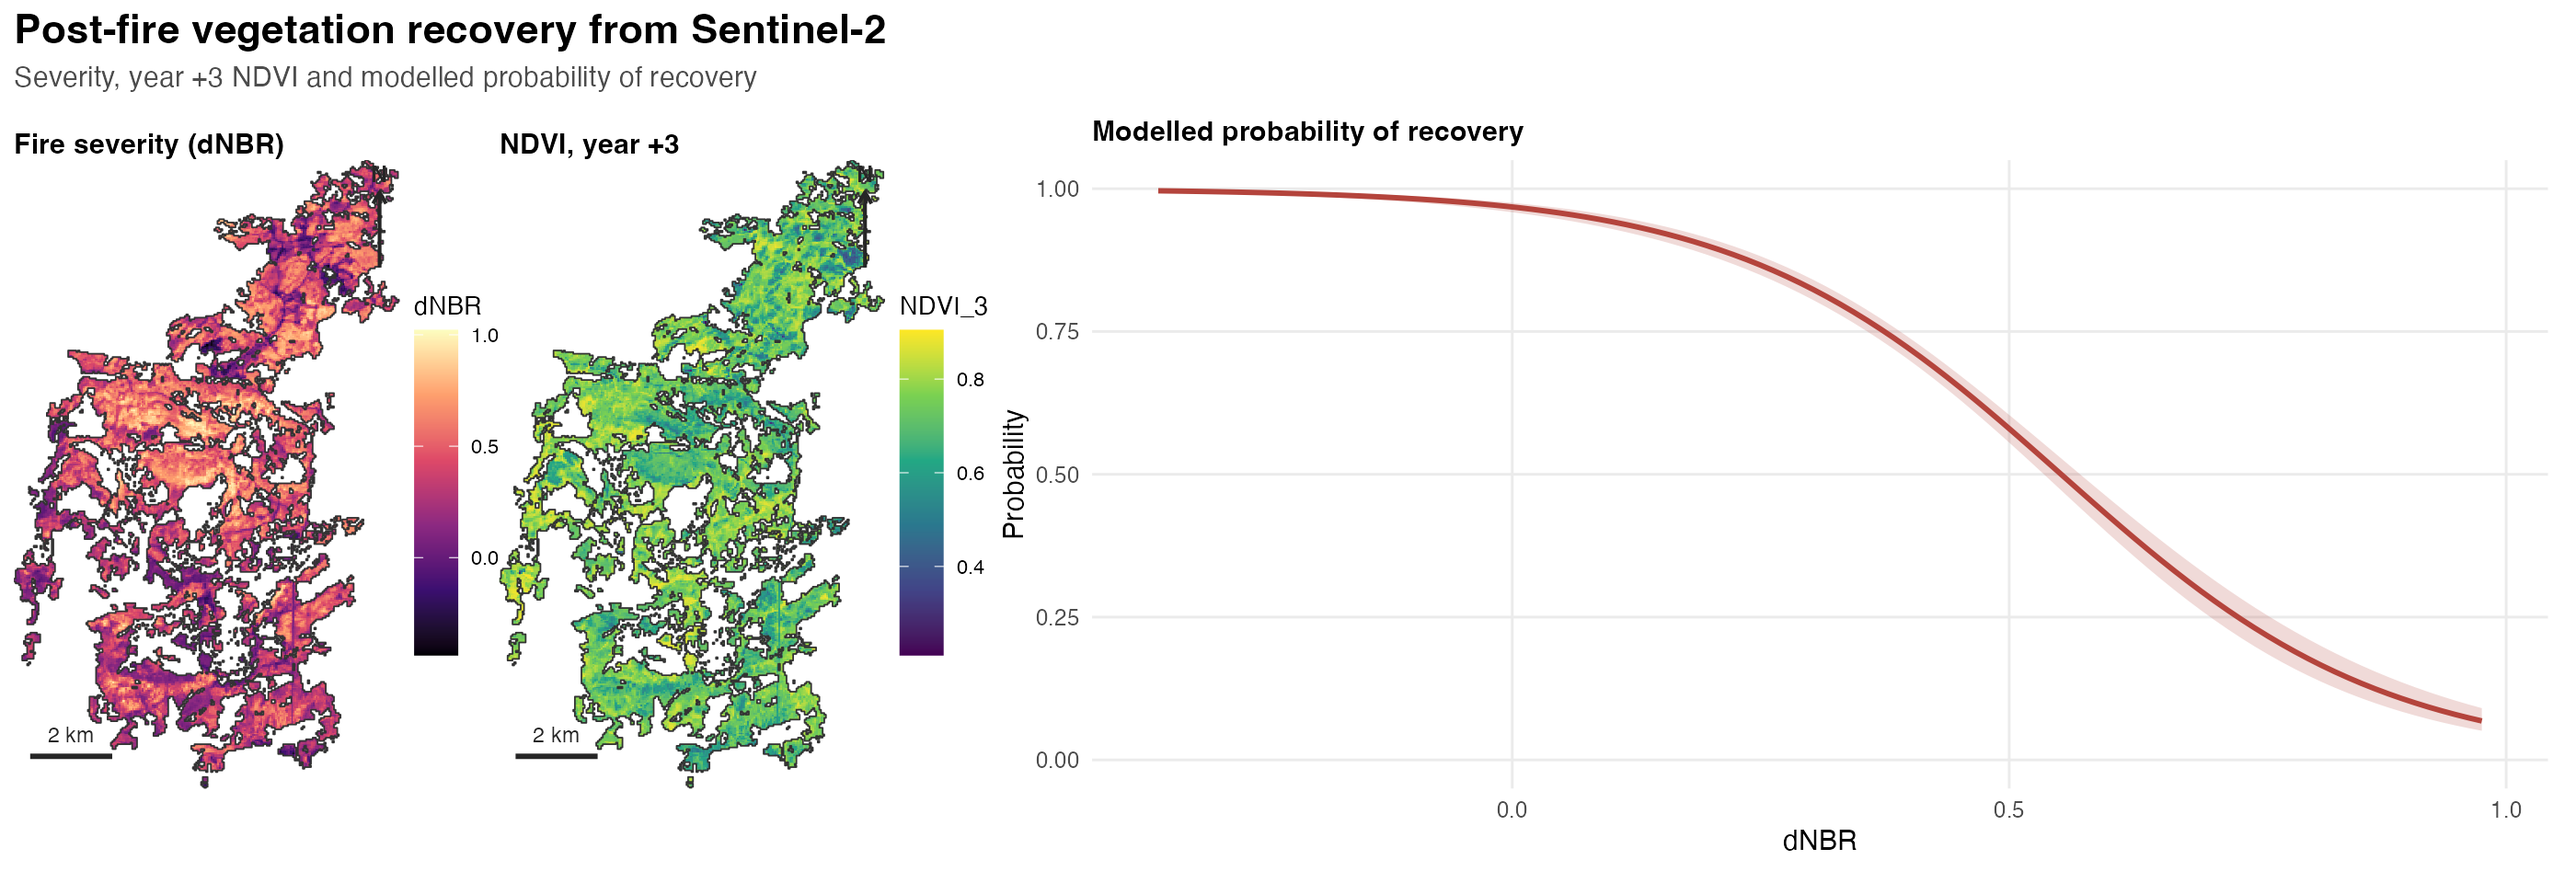
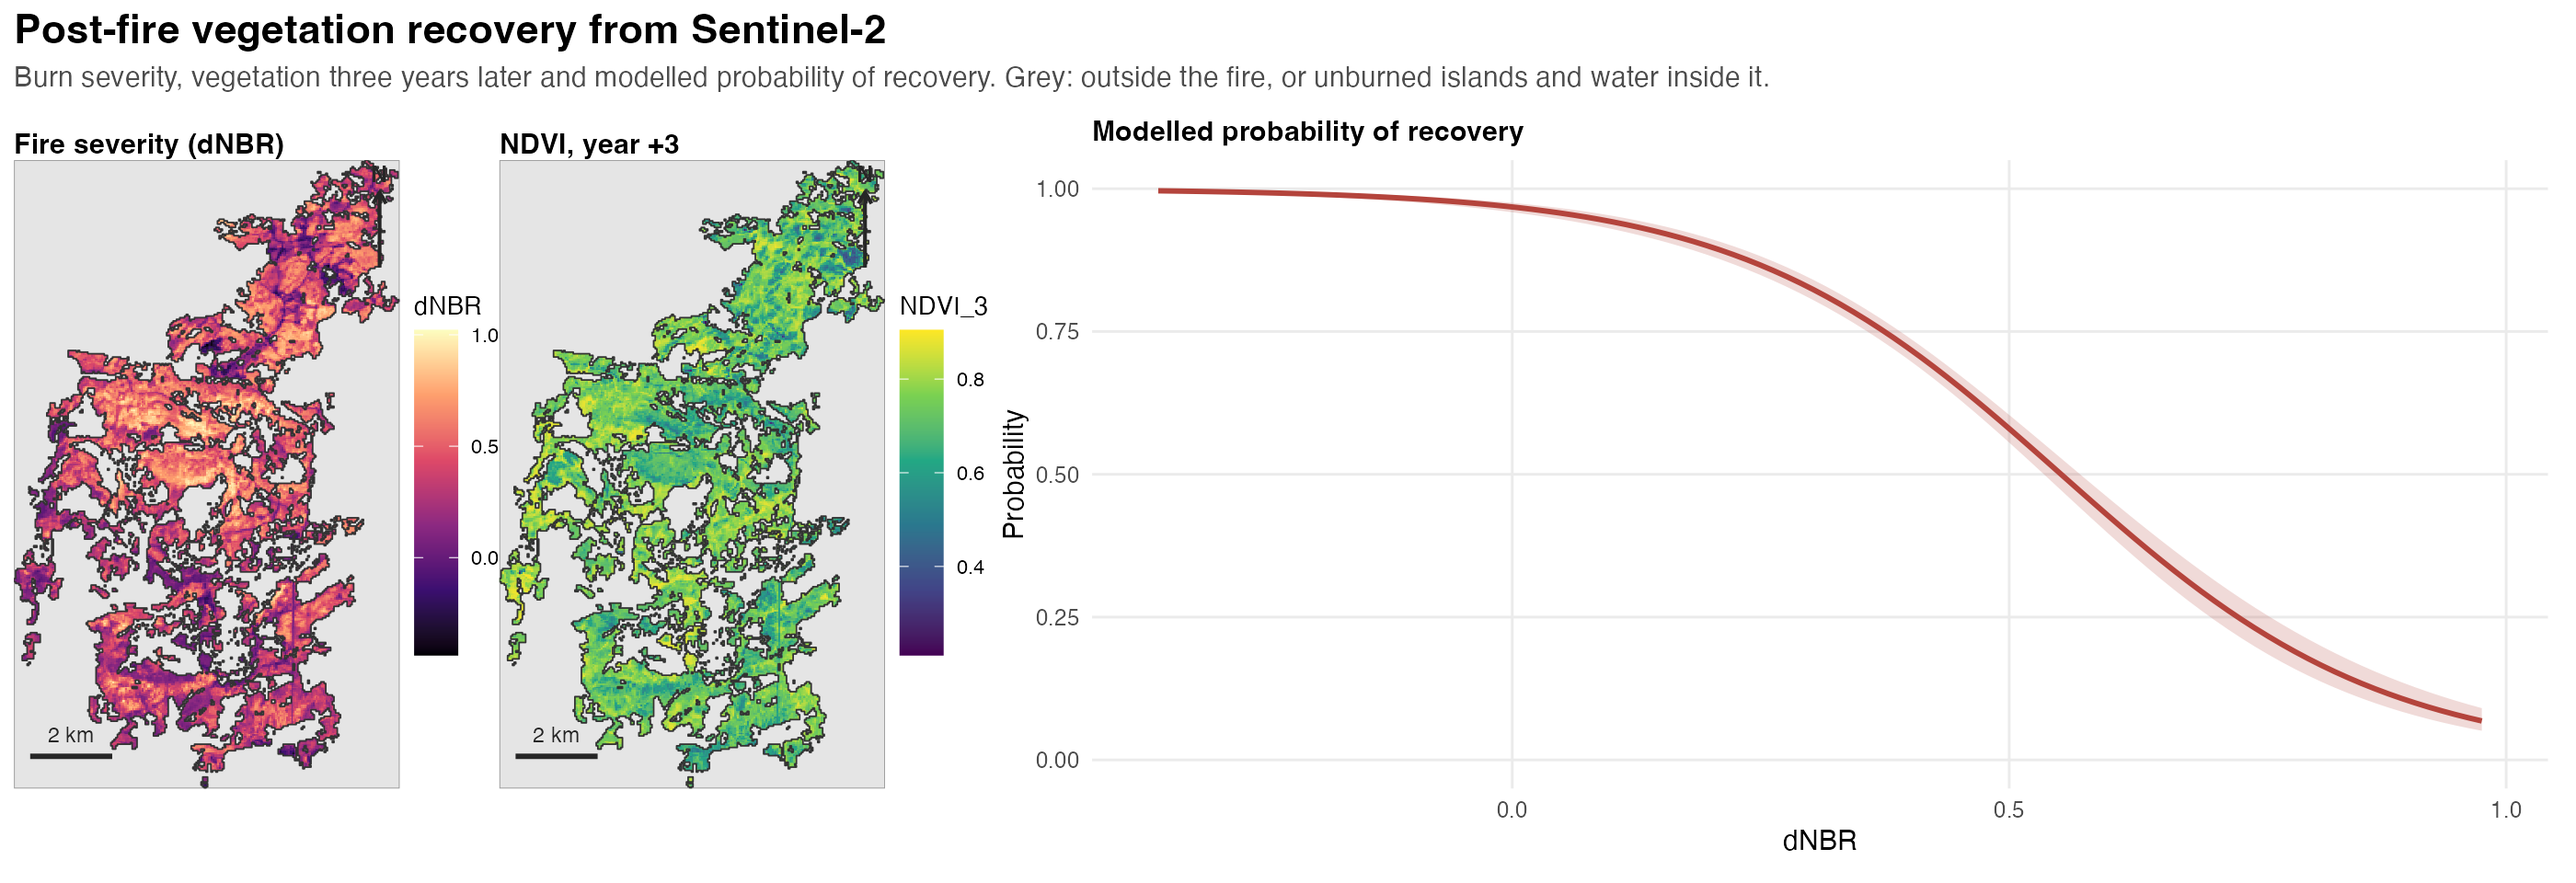
Improve map frames and legend context

Changed region(s): [[0.1864, 0.1562, 0.3418, 0.9062], [0.0, 0.1562, 0.1554, 0.9062], [0.0, 0.0625, 0.6836, 0.0938]]

diff --git a/analysis.md b/analysis.md
@@ -187,6 +187,11 @@ With a large number of pixels, a very small difference can be
 statistically significant without being important. The size of the
 differences matters, not only the p-values.
 
+**Reading.** The mean recovery index goes from 1.06 in low-severity
+pixels to 0.86 in high-severity pixels. The variance is unequal among
+classes (Bartlett test), so the Kruskal-Wallis test and the rank-based
+correlation in the next section are the safer references.
+
 ## 5. Correlation between severity and recovery
 
 ``` r
@@ -257,6 +262,12 @@ p1 + p2
 
 ![](figures/diagnostics-1.png)<!-- -->
 
+**Reading.** Holding pre-fire NDVI and terrain constant, a 0.1 increase
+in dNBR is associated with a 0.023 lower year +3 NDVI. The model
+explains 48% of the variance (R² = 0.48). The coefficients are
+associations, and their standard errors assume independent pixels, which
+section 9 shows is not the case.
+
 ## 7. Which set of variables best explains year +3 NDVI?
 
 Candidate models are compared with Akaike’s information criterion (AIC).
@@ -287,6 +298,10 @@ tibble(
 | M2: M1 + elevation + slope | 6 | -8477.766 | 4.745 | 0.085 |
 | M1: M0 + dNBR | 4 | -8459.714 | 22.797 | 0.000 |
 | M0: pre-fire NDVI | 3 | -6878.689 | 1603.822 | 0.000 |
+
+Because the residuals are spatially autocorrelated (section 9), AIC
+tends to favour more complex models than an analysis of independent data
+would. Read the ranking as indicative.
 
 ## 8. Probability that a pixel has recovered
 
@@ -336,13 +351,6 @@ roughly one unit: for a 0.1 increase in dNBR, the odds of recovery are
 multiplied by 0.54 (95% CI: 0.51 to 0.57).
 
 ``` r
-if (prevalence < 0.05 || prevalence > 0.95) {
-  cat("\nWarning: the share of recovered pixels is extreme.",
-      "Adjust `recovery_threshold` so that both outcomes are well represented.\n")
-}
-```
-
-``` r
 grid <- tibble(
   dNBR = seq(min(pts$dNBR), max(pts$dNBR), length.out = 100),
   NDVI_pre = median(pts$NDVI_pre),
@@ -364,6 +372,11 @@ ggplot(grid, aes(dNBR, p)) +
 ```
 
 ![](figures/logistic-figure-1.png)<!-- -->
+
+**Reading.** The AUC is computed on the same data used to fit the model,
+so it is optimistic. It describes how well severity and terrain separate
+recovered from non-recovered pixels in this fire, not how the model
+would perform on another one.
 
 ## 9. Spatial dependence
 
@@ -460,10 +473,6 @@ cat(sprintf(
 Cells: 342. Share of variance due to cells (ICC): 0.34. Moran’s I of the
 mixed model residuals: 0.065 (p \< 0.001).
 
-``` r
-cat("Fewer than 10 cells of 500 m: the mixed model is not fitted.\n")
-```
-
 ### Sensitivity: spatially thinned subsample
 
 To reduce spatial dependence, a single point is kept per 500 m cell, and
@@ -504,12 +513,13 @@ cat(sprintf(
 Thinned subsample: n = 342 points, Moran’s I of the residuals = 0.186 (p
 \< 0.001).
 
-``` r
-if (nrow(pts_thin) < 100) {
-  cat("\nWarning: the subsample is too small for a reliable estimate.",
-      "Increase `n_points` in `01_build_dataset.R` or reduce the cell size.\n")
-}
-```
+**Synthesis.** Moran’s I of the linear model residuals is 0.40
+(significant spatial autocorrelation). It is 0.07 for the mixed model
+and 0.19 for the thinned subsample. The dNBR coefficient is -0.232
+(full), -0.243 (mixed) and -0.219 (thinned), so the severity effect is
+stable across the three approaches. Terms whose estimate changes between
+the linear and the mixed model in the table above should be read with
+caution.
 
 ## 10. Multivariate structure and homogeneous zones
 
@@ -579,14 +589,17 @@ pts_cl |>
 | 3     |  154 | 0.016 |    0.511 |  0.592 |  0.681 |  0.714 |   319.846 | 4.227 |
 
 ``` r
-table(Group = pts_cl$group, Severity = pts_cl$severity) |> kable()
+table(Group = pts_cl$group, Severity = pts_cl$severity) |>
+  as.data.frame.matrix() |>
+  tibble::rownames_to_column("Group") |>
+  kable()
 ```
 
-| Low | Moderate | High |
-|----:|---------:|-----:|
-| 850 |     1013 |   20 |
-|   4 |      634 |  309 |
-| 147 |        7 |    0 |
+| Group | Low | Moderate | High |
+|:------|----:|---------:|-----:|
+| 1     | 850 |     1013 |   20 |
+| 2     |   4 |      634 |  309 |
+| 3     | 147 |        7 |    0 |
 
 ``` r
 ggplot(pts_cl, aes(x, y, colour = group)) +
@@ -630,7 +643,7 @@ sessionInfo()
     ## Running under: macOS Golden Gate 27.2.1
     ## 
     ## Matrix products: default
-    ## BLAS:   /System/Library/Frameworks/Accelerate.framework/Versions/A/Frameworks/vecLib.framework/Versions/A/libBLAS.dylib 
+    ## BLAS:   /Library/Frameworks/R.framework/Versions/4.6/Resources/lib/libRblas.0.dylib 
     ## LAPACK: /Library/Frameworks/R.framework/Versions/4.6/Resources/lib/libRlapack.dylib;  LAPACK version 3.12.1
     ## 
     ## locale:
@@ -643,21 +656,25 @@ sessionInfo()
     ## [1] stats     graphics  grDevices utils     datasets  methods   base     
     ## 
     ## other attached packages:
-    ##  [1] lme4_2.1-0      Matrix_1.7-5    knitr_1.52      broom_1.0.13    terra_1.9-50    sf_1.1-3        patchwork_1.3.2 ggplot2_4.0.4  
+    ##  [1] lme4_2.1-0      Matrix_1.7-5    knitr_1.52      broom_1.0.13   
+    ##  [5] terra_1.9-50    sf_1.1-3        patchwork_1.3.2 ggplot2_4.0.4  
     ##  [9] readr_2.2.0     tidyr_1.3.2     dplyr_1.2.1    
     ## 
     ## loaded via a namespace (and not attached):
-    ##  [1] tidyselect_1.2.1    viridisLite_0.4.3   DHARMa_0.4.7        glmmTMB_1.1.14      farver_2.1.2        S7_0.2.2           
-    ##  [7] fastmap_1.2.0       digest_0.6.39       estimability_1.5.1  lifecycle_1.0.5     magrittr_2.0.5      compiler_4.6.1     
-    ## [13] rlang_1.2.0         tools_4.6.1         igraph_2.3.4        yaml_2.3.12         labeling_0.4.3      bit_4.6.0          
-    ## [19] sp_2.2-1            classInt_0.4-11     RColorBrewer_1.1-3  KernSmooth_2.23-26  withr_3.0.2         purrr_1.2.2        
-    ## [25] numDeriv_2016.8-1.1 grid_4.6.1          stats4_4.6.1        xtable_1.8-8        e1071_1.7-17        emmeans_2.0.3      
-    ## [31] scales_1.4.0        MASS_7.3-65         cli_3.6.6           mvtnorm_1.4-0       rmarkdown_2.32      crayon_1.5.3       
-    ## [37] reformulas_0.4.4    generics_0.1.4      otel_0.2.0          rstudioapi_0.18.0   tzdb_0.5.0          spdep_1.4-2        
-    ## [43] minqa_1.2.8         DBI_1.3.0           proxy_0.4-29        splines_4.6.1       parallel_4.6.1      s2_1.1.11          
-    ## [49] vctrs_0.7.3         boot_1.3-32         sandwich_3.1-1      spData_2.3.5        hms_1.1.4           bit64_4.8.6        
-    ## [55] ggrepel_0.9.8       units_1.0-1         glue_1.8.1          nloptr_2.2.1        codetools_0.2-20    gtable_0.3.6       
-    ## [61] deldir_2.0-4        tibble_3.3.1        pillar_1.11.1       htmltools_0.5.9     R6_2.6.1            TMB_1.9.21         
-    ## [67] wk_0.9.5            Rdpack_2.6.6        vroom_1.7.1         evaluate_1.0.5      lattice_0.22-9      rbibutils_2.4.1    
-    ## [73] backports_1.5.1     class_7.3-23        Rcpp_1.1.1-1.1      nlme_3.1-169        mgcv_1.9-4          xfun_0.57          
-    ## [79] zoo_1.8-15          pkgconfig_2.0.3
+    ##  [1] gtable_0.3.6       xfun_0.57          lattice_0.22-9     tzdb_0.5.0        
+    ##  [5] vctrs_0.7.3        tools_4.6.1        Rdpack_2.6.6       generics_0.1.4    
+    ##  [9] spdep_1.4-2        stats4_4.6.1       parallel_4.6.1     tibble_3.3.1      
+    ## [13] proxy_0.4-29       pkgconfig_2.0.3    KernSmooth_2.23-26 RColorBrewer_1.1-3
+    ## [17] S7_0.2.2           lifecycle_1.0.5    deldir_2.0-4       compiler_4.6.1    
+    ## [21] farver_2.1.2       codetools_0.2-20   htmltools_0.5.9    class_7.3-23      
+    ## [25] yaml_2.3.12        pillar_1.11.1      nloptr_2.2.1       crayon_1.5.3      
+    ## [29] MASS_7.3-65        classInt_0.4-11    wk_0.9.5           reformulas_0.4.4  
+    ## [33] boot_1.3-32        nlme_3.1-169       tidyselect_1.2.1   digest_0.6.39     
+    ## [37] purrr_1.2.2        labeling_0.4.3     splines_4.6.1      fastmap_1.2.0     
+    ## [41] grid_4.6.1         cli_3.6.6          magrittr_2.0.5     e1071_1.7-17      
+    ## [45] withr_3.0.2        scales_1.4.0       backports_1.5.1    sp_2.2-1          
+    ## [49] bit64_4.8.6        spData_2.3.5       rmarkdown_2.32     igraph_2.3.4      
+    ## [53] bit_4.6.0          otel_0.2.0         hms_1.1.4          evaluate_1.0.5    
+    ## [57] rbibutils_2.4.1    viridisLite_0.4.3  s2_1.1.11          mgcv_1.9-4        
+    ## [61] rlang_1.2.0        Rcpp_1.1.1-1.1     glue_1.8.1         DBI_1.3.0         
+    ## [65] vroom_1.7.1        minqa_1.2.8        R6_2.6.1           units_1.0-1
